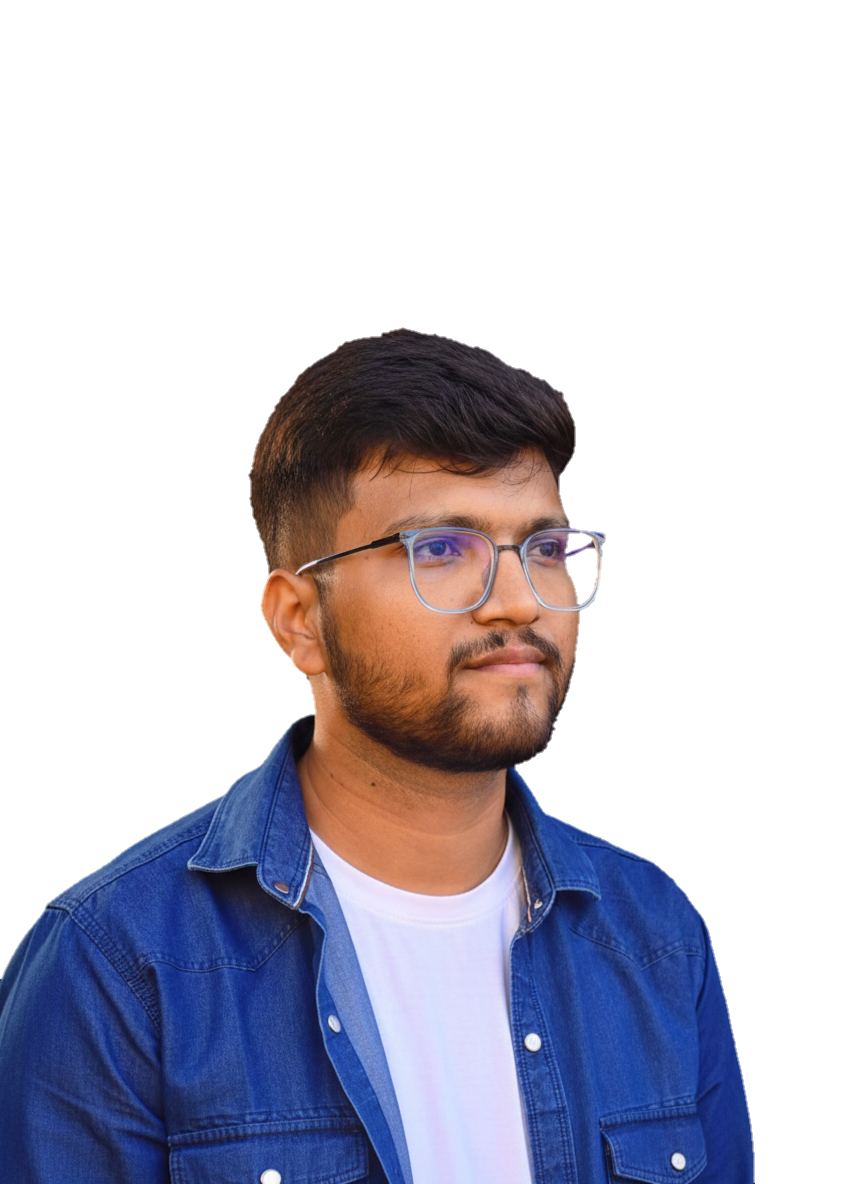
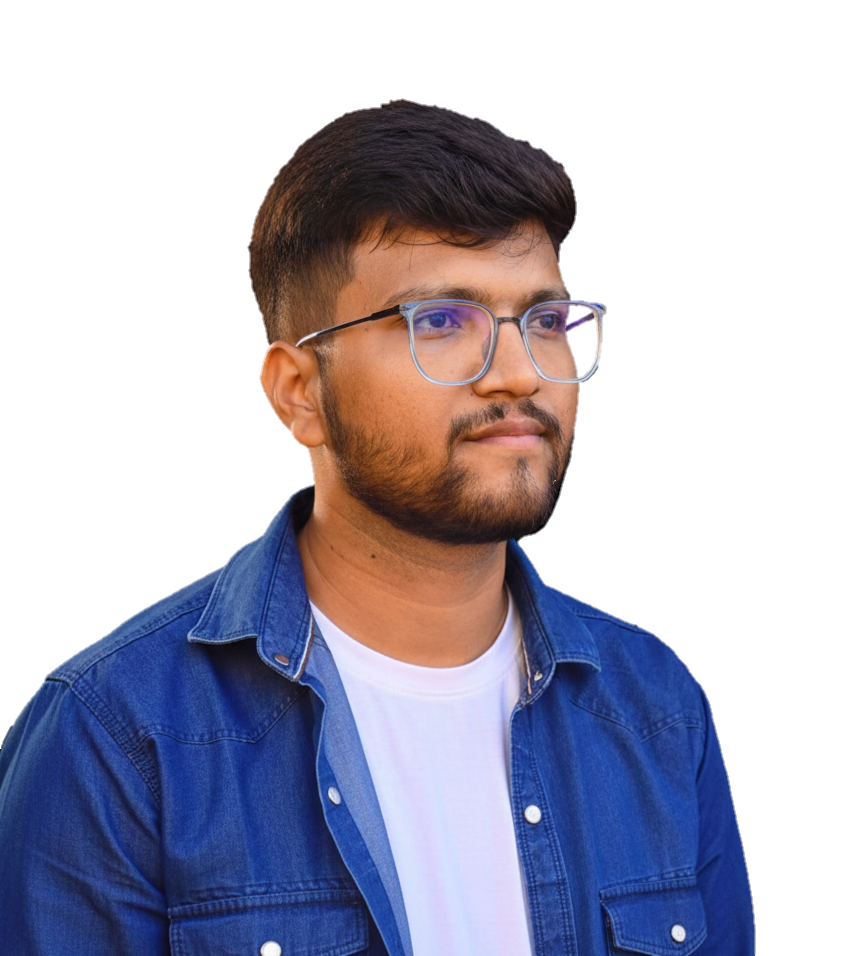
gen4 upddate

diff --git a/src/Components/About.jsx b/src/Components/About.jsx
@@ -66,86 +66,110 @@ const About = () => {
           </h2>
         </motion.div>
 
-        <div className="max-w-5xl mx-auto">
-          <div className="flex flex-col lg:flex-row gap-12 items-center">
-            {/* Photo Container */}
-            <motion.div
-              initial={{ opacity: 0, x: -50 }}
-              whileInView={{ opacity: 1, x: 0 }}
-              viewport={{ once: true }}
-              transition={{ duration: 0.5 }}
-              className="w-full lg:w-1/2"
-            >
-              <div className="relative group">
-                <motion.div
-                  className="absolute inset-0 bg-gradient-to-r from-blue-500 via-purple-500 to-pink-500 rounded-2xl blur-xl group-hover:blur-2xl transition-all duration-300 opacity-50"
-                  animate={{
-                    scale: [1, 1.02, 1],
-                  }}
-                  transition={{
-                    duration: 4,
-                    repeat: Infinity,
-                    repeatType: "reverse",
-                  }}
-                />
-                <div className="relative bg-gray-800/50 backdrop-blur-sm rounded-2xl p-3 border border-white/10">
-                  <div className="aspect-square rounded-xl overflow-hidden">
-                    <motion.img
-                      src="/prem_jadhav_image.png"
-                      alt="Prem Jadhav"
-                      className="w-full h-full object-cover"
-                      whileHover={{ scale: 1.05 }}
-                      transition={{ duration: 0.3 }}
-                    />
+        <div className="max-w-6xl mx-auto">
+          {/* Main Content Card */}
+          <motion.div
+            initial={{ opacity: 0, y: 20 }}
+            whileInView={{ opacity: 1, y: 0 }}
+            viewport={{ once: true }}
+            transition={{ duration: 0.5 }}
+            className="bg-gray-800/50 backdrop-blur-sm rounded-3xl p-8 md:p-12 border border-gray-700 shadow-2xl"
+          >
+            <div className="flex flex-col lg:flex-row gap-12 items-start">
+              {/* Photo Container - Creative Geometric Design */}
+              <motion.div
+                initial={{ opacity: 0, scale: 0.9 }}
+                whileInView={{ opacity: 1, scale: 1 }}
+                viewport={{ once: true }}
+                transition={{ duration: 0.5 }}
+                className="w-full lg:w-80 flex-shrink-0 mx-auto lg:mx-0"
+              >
+                <div className="relative">
+                  {/* Gradient Border Effect */}
+                  <div className="absolute inset-0 bg-gradient-to-br from-blue-500 via-purple-500 to-pink-500 rounded-3xl blur-md opacity-60"></div>
+                  
+                  {/* Main Image Container */}
+                  <div className="relative bg-gray-900 rounded-3xl p-1">
+                    <div className="relative rounded-[22px] overflow-hidden">
+                      {/* Gradient Overlay on Image */}
+                      <div className="absolute inset-0 bg-gradient-to-t from-gray-900 via-transparent to-transparent opacity-40 z-10"></div>
+                      
+                      <img
+                        src="/prem_jadhav_image.png"
+                        alt="Prem Jadhav"
+                        className="w-full h-full object-cover aspect-square"
+                      />
+                      
+                      {/* Corner Accents */}
+                      <div className="absolute top-0 left-0 w-20 h-20 border-t-4 border-l-4 border-blue-500 rounded-tl-[22px]"></div>
+                      <div className="absolute bottom-0 right-0 w-20 h-20 border-b-4 border-r-4 border-pink-500 rounded-br-[22px]"></div>
+                    </div>
+                  </div>
+                  
+                  {/* Floating Badge */}
+                  <motion.div
+                    initial={{ scale: 0 }}
+                    whileInView={{ scale: 1 }}
+                    viewport={{ once: true }}
+                    transition={{ delay: 0.3, type: "spring" }}
+                    className="absolute -bottom-4 -right-4 bg-gradient-to-r from-blue-500 to-purple-500 rounded-2xl px-4 py-2 shadow-xl"
+                  >
+                    <div className="flex items-center gap-2">
+                      <div className="w-2 h-2 bg-green-400 rounded-full animate-pulse"></div>
+                      <span className="text-white text-sm font-semibold">Available</span>
+                    </div>
+                  </motion.div>
+                  
+                  {/* Decorative Dots Pattern */}
+                  <div className="absolute -top-6 -left-6 grid grid-cols-3 gap-2 opacity-50">
+                    {[...Array(9)].map((_, i) => (
+                      <motion.div
+                        key={i}
+                        className="w-1.5 h-1.5 bg-gradient-to-r from-blue-500 to-purple-500 rounded-full"
+                        initial={{ scale: 0 }}
+                        whileInView={{ scale: 1 }}
+                        viewport={{ once: true }}
+                        transition={{ delay: i * 0.05 }}
+                      />
+                    ))}
                   </div>
                 </div>
-                {/* Decorative elements */}
-                <div className="absolute -top-4 -right-4 w-8 h-8 bg-gradient-to-r from-blue-500 to-cyan-500 rounded-full blur-sm" />
-                <div className="absolute -bottom-4 -left-4 w-8 h-8 bg-gradient-to-r from-purple-500 to-pink-500 rounded-full blur-sm" />
-              </div>
-            </motion.div>
+              </motion.div>
 
-            {/* About Content */}
-            <motion.div
-              initial={{ opacity: 0, x: 50 }}
-              whileInView={{ opacity: 1, x: 0 }}
-              viewport={{ once: true }}
-              transition={{ duration: 0.5 }}
-              className="w-full lg:w-1/2 space-y-8"
-            >
-              <div className="bg-gray-800/50 backdrop-blur-sm rounded-2xl p-8 border border-gray-700">
-                <h3 className="text-3xl font-bold text-white mb-6 bg-gradient-to-r from-blue-500 via-purple-500 to-pink-500 bg-clip-text text-transparent">
-                  Full Stack Developer & Tech Enthusiast
-                </h3>
-                <div className="space-y-6 text-gray-300">
+              {/* About Content */}
+              <div className="flex-1 space-y-6">
+                <div>
+                  <h3 className="text-3xl md:text-4xl font-bold text-white mb-3 bg-gradient-to-r from-blue-500 via-purple-500 to-pink-500 bg-clip-text text-transparent">
+                    Full Stack Developer & Tech Enthusiast
+                  </h3>
+                  <div className="h-1 w-24 bg-gradient-to-r from-blue-500 via-purple-500 to-pink-500 rounded-full mb-6"></div>
+                </div>
+
+                <div className="space-y-4 text-gray-300 text-base leading-relaxed">
                   <p>
-                    Hello! I'm Prem Jadhav, a passionate MERN Stack Developer from Pune, India. 
+                    👋 Hello! I'm <span className="text-white font-semibold">Prem Jadhav</span>, a passionate MERN Stack Developer from Pune, India. 
                     I specialize in building full-stack web applications using React, Node.js, 
                     Express, and MongoDB, with a strong focus on creating scalable and efficient solutions.
                   </p>
                   <p>
-                    Currently pursuing my Bachelor of Technology in Computer Science at JSPM's Rajashri 
-                    Shahu College of Engineering with a CGPA of 9.21. I've gained hands-on experience 
+                    🎓 Currently pursuing my Bachelor of Technology in Computer Science at JSPM's Rajashri 
+                    Shahu College of Engineering with a <span className="text-white font-semibold">CGPA of 9.21</span>. I've gained hands-on experience 
                     through my internship at SUMAGO Infotech and have won multiple hackathons including 
-                    Google Cloud's Build and Grow Hackathon and DigitalOcean's Hacktoberfest Hackathon.
+                    <span className="text-blue-400 font-semibold"> Google Cloud's Build and Grow Hackathon</span> and 
+                    <span className="text-blue-400 font-semibold"> DigitalOcean's Hacktoberfest Hackathon</span>.
                   </p>
                   <p>
-                    As the Lead of Web Development at Google Developer Group on Campus (GDGoC), I'm 
+                    🚀 As the <span className="text-white font-semibold">Lead of Web Development at Google Developer Group on Campus (GDGoC)</span>, I'm 
                     passionate about building innovative solutions and sharing knowledge with the 
                     developer community. I've participated in 7+ national-level hackathons and love 
                     working on AI-powered applications.
                   </p>
                 </div>
 
-                <div className="flex flex-wrap gap-4 mt-8">
-                  {/* Tech Stack */}
-                  <motion.div
-                    className="flex gap-3 flex-wrap"
-                    initial={{ opacity: 0 }}
-                    whileInView={{ opacity: 1 }}
-                    viewport={{ once: true }}
-                    transition={{ delay: 0.2 }}
-                  >
+                {/* Tech Stack */}
+                <div className="pt-4">
+                  <h4 className="text-lg font-semibold text-white mb-4">Tech Stack</h4>
+                  <div className="flex flex-wrap gap-3">
                     {[
                       "React.js",
                       "Node.js",
@@ -156,30 +180,36 @@ const About = () => {
                     ].map((tech, index) => (
                       <motion.span
                         key={index}
-                        className="px-4 py-2 rounded-xl bg-gray-700/50 text-gray-300 text-sm border border-gray-600 hover:border-gray-500 transition-colors"
-                        whileHover={{ scale: 1.05 }}
+                        className="px-4 py-2 rounded-lg bg-gradient-to-r from-gray-700/50 to-gray-800/50 text-gray-200 text-sm border border-gray-600 hover:border-blue-500 hover:shadow-lg hover:shadow-blue-500/20 transition-all duration-300"
+                        whileHover={{ scale: 1.05, y: -2 }}
                         whileTap={{ scale: 0.95 }}
+                        initial={{ opacity: 0, y: 20 }}
+                        whileInView={{ opacity: 1, y: 0 }}
+                        viewport={{ once: true }}
+                        transition={{ delay: index * 0.1 }}
                       >
                         {tech}
                       </motion.span>
                     ))}
-                  </motion.div>
+                  </div>
                 </div>
 
-                {/* Download CV Button */}
-                <motion.a
-                  href="/Prem_Jadhav_Resume.pdf"
-                  download="Prem_Jadhav_Resume.pdf"
-                  className="inline-flex items-center gap-2 px-6 py-3 mt-8 rounded-xl bg-gradient-to-r from-blue-500 via-purple-500 to-pink-500 text-white font-medium hover:opacity-90 transition-opacity"
-                  whileHover={{ scale: 1.05 }}
-                  whileTap={{ scale: 0.95 }}
-                >
-                  <FaDownload className="text-sm" />
-                  Download CV
-                </motion.a>
+                {/* Download Resume Button */}
+                <div className="pt-4">
+                  <motion.a
+                    href="/Prem_Jadhav_Resume.pdf"
+                    download="Prem_Jadhav_Resume.pdf"
+                    className="inline-flex items-center gap-2 px-8 py-3 rounded-xl bg-gradient-to-r from-blue-500 via-purple-500 to-pink-500 text-white font-semibold hover:shadow-2xl hover:shadow-purple-500/50 transition-all duration-300"
+                    whileHover={{ scale: 1.05, y: -2 }}
+                    whileTap={{ scale: 0.95 }}
+                  >
+                    <FaDownload className="text-lg" />
+                    Download Resume
+                  </motion.a>
+                </div>
               </div>
-            </motion.div>
-          </div>
+            </div>
+          </motion.div>
         </div>
       </div>
     </section>
